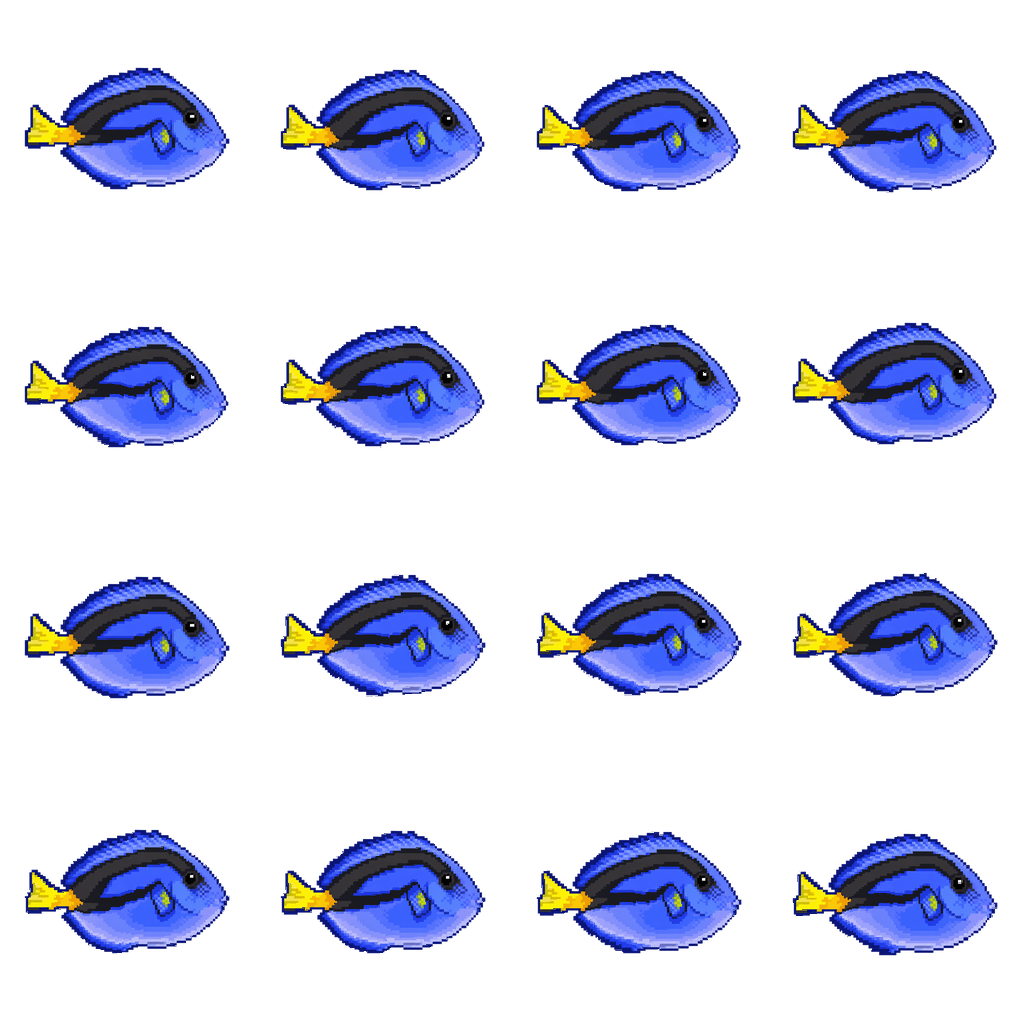
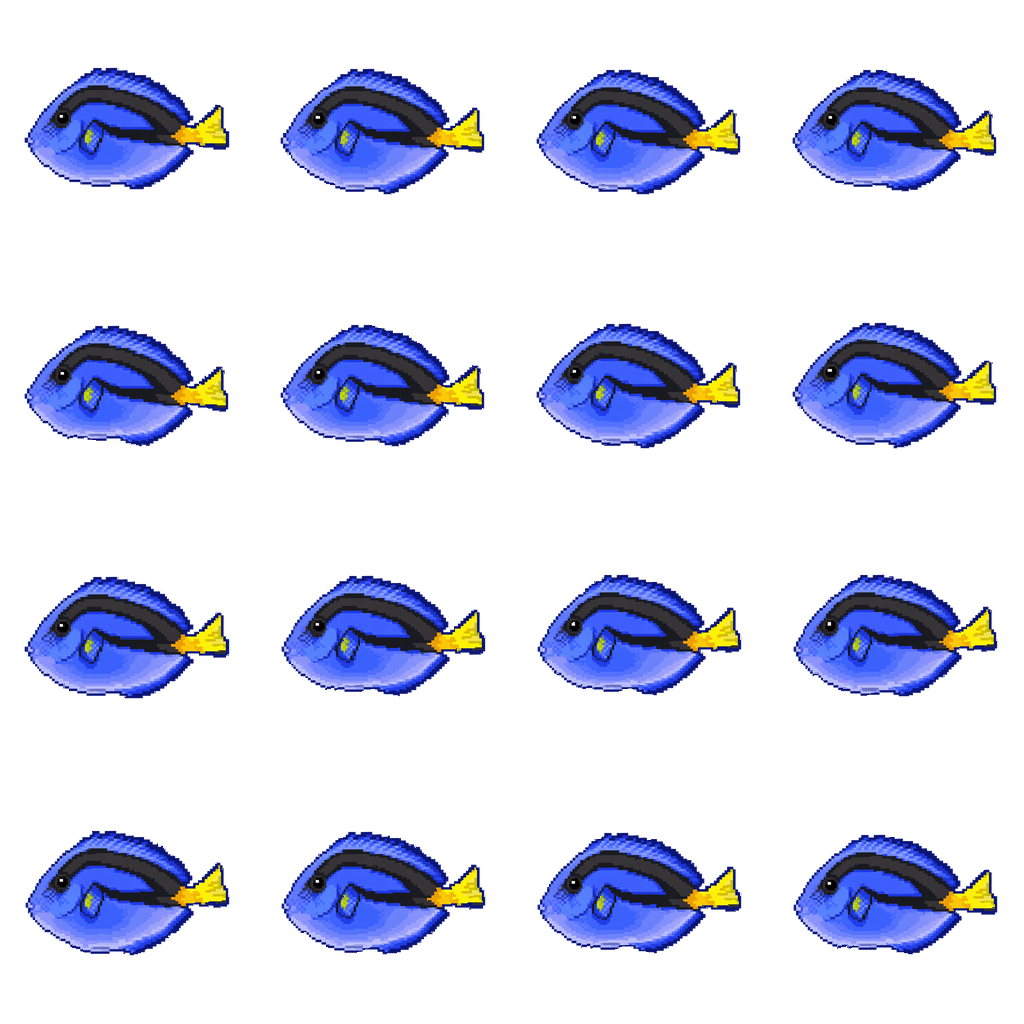
Fix mirrored artwork and stop fin motion denting the body
Individual review of all 30 turned up three real faults:

1. blue_hippo_tang and cherry_shrimp are drawn facing right while everything
   else faces left. The tail wave was landing on their heads, and the app -
   which assumes left-facing art and mirrors for rightward travel - would have
   swum them backwards. Both are now flipped before framing, and the shrimp
   profile is re-authored for left-facing coordinates.

2. Fin motion used fixed rectangles in normalised space. On deep-bodied reef
   fish that box sat on solid belly and pushed it around, which is what the
   audit showed as a red fringe along the underside. Fin movement now follows
   the silhouette edge, measured per column from the sprite's own alpha:
   weight 0.97 at the margin, 0.00 at the body centre, so the interior is never
   deformed.

3. silhouette_extents cached on id(image). CPython reuses ids after collection,
   so one fish could have been handed another's outline. Cached on the image
   object instead.

Also softened slow_cruise, whose uniform bob was drowning out the tail beat.

An automated facing check via the caudal peduncle was tried and discarded - it
produced six false positives on deep-bodied fish and on the swordfish, whose
narrowest point is its bill. Facing was confirmed by eye instead.

diff --git a/make_spritesheet.py b/make_spritesheet.py
@@ -229,27 +229,28 @@ def frame_rigid_fins(base, phase, pectoral=(0.44, 0.66, 0.34, 0.66), caudal_star
 def frame_shrimp(base, phase):
     """Cherry shrimp: rigid shell, beating swimmerets, flicking antennae.
 
-    The artwork faces right, so the rostrum and antennae are at u=1 and the tail
-    fan at u=0. Crustaceans can't undulate - the body holds its shape and hovers
-    while the appendages do the work, which is what separates this from a fish.
+    The source art faces right but is mirrored before it gets here, so as with
+    every other sprite the rostrum and antennae sit at u=0 and the tail fan at
+    u=1. Crustaceans can't undulate - the body holds its shape and hovers while
+    the appendages do the work, which is what separates this from a fish.
     """
     def displace(u, v):
         # whole animal hovers, with a slight nose-up/nose-down pitch
         dy = 4.5 * math.sin(phase)
-        dy += 2.6 * math.sin(phase + 0.7) * (u - 0.5) * 2
+        dy += 2.6 * math.sin(phase + 0.7) * (0.5 - u) * 2
         dx = 1.8 * math.sin(phase * 2 + 0.4)
 
-        # antennae: long, thin, upper right - flick faster and lag the body
-        antenna = smoothstep(0.66, 1.0, u) * (1.0 - smoothstep(0.30, 0.72, v))
+        # antennae: long, thin, upper front - flick faster and lag the body
+        antenna = (1.0 - smoothstep(0.0, 0.34, u)) * (1.0 - smoothstep(0.30, 0.72, v))
         dy += 5.0 * antenna * math.sin(phase * 2 + 1.1)
         dx += 2.4 * antenna * math.sin(phase * 2 + 1.8)
 
-        # pleopods and walking legs: ventral, fast, travelling back to front
-        legs = smoothstep(0.55, 0.86, v) * smoothstep(0.08, 0.30, u)
-        dy += 2.8 * legs * math.sin(phase * 3 + u * 5.5)
+        # pleopods and walking legs: ventral, fast, travelling front to back
+        legs = smoothstep(0.55, 0.86, v) * (1.0 - smoothstep(0.70, 0.92, u))
+        dy += 2.8 * legs * math.sin(phase * 3 + (1.0 - u) * 5.5)
 
-        # tail fan gives a small flex at the far left
-        fan = 1.0 - smoothstep(0.0, 0.22, u)
+        # tail fan gives a small flex at the far end
+        fan = smoothstep(0.78, 1.0, u)
         dy += 2.2 * fan * math.sin(phase + 2.4)
 
         return dx, dy
@@ -278,9 +279,39 @@ def frame_bcf(base, phase, amplitude=9.0, envelope=2.0, waves=1.1, beat=1,
     return mesh_warp(base, displace, cells=28)
 
 
+def silhouette_extents(image, samples=96):
+    """Top and bottom of the sprite for each of `samples` columns, normalised.
+
+    Used to find the body's outline. Fins are the outline - so motion aimed at
+    fins has to follow the actual silhouette rather than a rectangle guessed in
+    advance, which on a deep-bodied fish just lands on the belly and dents it.
+    """
+    # Cached on the image itself. Keying a dict by id() would be a trap: CPython
+    # reuses ids once an object is collected, so one fish could be handed
+    # another's silhouette.
+    cached = getattr(image, "_extents", None)
+    if cached and cached[0] == samples:
+        return cached[1]
+
+    width, height = image.size
+    alpha = image.getchannel("A").load()
+    tops, bottoms = [], []
+    for i in range(samples):
+        x = min(width - 1, int((i + 0.5) * width / samples))
+        column = [y for y in range(0, height, 2) if alpha[x, y] > 25]
+        if column:
+            tops.append(min(column) / height)
+            bottoms.append(max(column) / height)
+        else:
+            tops.append(None)
+            bottoms.append(None)
+    image._extents = (samples, (tops, bottoms))
+    return tops, bottoms
+
+
 def frame_mpf(base, phase, swing=1.5, bob=2.8, tail_amp=3.5, tail_beat=1,
-              pectoral=(0.28, 0.52, 0.44, 0.74), pectoral_amp=3.6, pectoral_beat=3,
-              median_amp=0.0, median_beat=2, dorsal_v=0.30, anal_v=0.70):
+              pectoral_amp=3.6, pectoral_beat=3, pectoral_span=(0.26, 0.58),
+              median_amp=0.0, median_beat=2, margin=0.22):
     """Median- and paired-fin swimming: the body stays stiff, fins do the work.
 
     Wrasses, parrotfish, tangs and angelfish row with their pectorals and hold
@@ -288,31 +319,48 @@ def frame_mpf(base, phase, swing=1.5, bob=2.8, tail_amp=3.5, tail_beat=1,
     fins. Both are expressed here - `pectoral_amp` for the rowers, `median_amp`
     for the ripplers - because in both cases the body itself barely bends.
 
-    Fin regions are approximate rectangles in normalised coordinates; without a
-    per-fish mask that is as precise as this can honestly get.
+    Fin movement is applied near the silhouette edge rather than inside a fixed
+    box: `margin` is how far in from the outline counts as fin, as a fraction of
+    the body's depth at that point. Deep in the body the weight falls to zero,
+    so the belly never gets pushed around.
     """
-    u0, u1, v0, v1 = pectoral
+    tops, bottoms = silhouette_extents(base)
+    samples = len(tops)
+    pu0, pu1 = pectoral_span
+
+    def edge_weight(u, v):
+        """1 at the silhouette's top/bottom edge, 0 deep inside the body."""
+        i = min(samples - 1, max(0, int(u * samples)))
+        top, bottom = tops[i], bottoms[i]
+        if top is None or bottom - top < 1e-3:
+            return 0.0, 0.0
+        depth = bottom - top
+        upper = 1.0 - smoothstep(0.0, margin, (v - top) / depth)
+        lower = 1.0 - smoothstep(0.0, margin, (bottom - v) / depth)
+        return max(0.0, upper), max(0.0, lower)
 
     def displace(u, v):
         dx, dy = rigid_offset(u, v, swing * math.sin(phase), pivot=(0.30, 0.50))
         dy += bob * math.sin(phase + 0.5)
+
+        upper, lower = edge_weight(u, v)
 
         # the tail still contributes, but as a trailing rudder
         tail = smoothstep(0.70, 1.0, u)
         dy += tail_amp * tail * math.sin(tail_beat * phase + 0.4)
 
         if pectoral_amp:
-            fan = (smoothstep(u0, u0 + 0.06, u) * (1.0 - smoothstep(u1 - 0.06, u1, u))
-                   * smoothstep(v0, v0 + 0.05, v) * (1.0 - smoothstep(v1 - 0.05, v1, v)))
+            # pectorals sit low on the flank, just behind the head
+            span = smoothstep(pu0, pu0 + 0.07, u) * (1.0 - smoothstep(pu1 - 0.07, pu1, u))
+            fan = span * lower
             dy += pectoral_amp * fan * math.sin(pectoral_beat * phase)
             dx += pectoral_amp * 0.6 * fan * math.sin(pectoral_beat * phase + 1.5)
 
         if median_amp:
-            # dorsal above, anal below, travelling tail-ward and in antiphase
-            dorsal = (1.0 - smoothstep(dorsal_v - 0.10, dorsal_v, v)) * smoothstep(0.20, 0.35, u)
-            anal = smoothstep(anal_v, anal_v + 0.10, v) * smoothstep(0.25, 0.40, u)
-            dy += median_amp * dorsal * math.sin(median_beat * phase + u * 6.0)
-            dy += median_amp * anal * math.sin(median_beat * phase + u * 6.0 + math.pi)
+            # dorsal above and anal below, travelling tail-ward in antiphase
+            body = smoothstep(0.20, 0.36, u)
+            dy += median_amp * upper * body * math.sin(median_beat * phase + u * 6.0)
+            dy += median_amp * lower * body * math.sin(median_beat * phase + u * 6.0 + math.pi)
 
         return dx, dy
 
@@ -344,16 +392,18 @@ PROFILES = {
                                        beat=1, swing=2.0, pivot_u=0.22, bob=1.4)),
     "subcarangiform": (frame_bcf, dict(amplitude=7.5, envelope=1.9, waves=1.15,
                                        beat=2, swing=2.2, pivot_u=0.26, bob=1.6)),
-    "anguilliform":   (frame_bcf, dict(amplitude=10.0, envelope=1.0, waves=1.75,
+    "anguilliform":   (frame_bcf, dict(amplitude=7.5, envelope=1.0, waves=1.75,
                                        beat=1, swing=1.0, pivot_u=0.38, bob=1.2)),
-    "slow_cruise":    (frame_bcf, dict(amplitude=5.0, envelope=3.0, waves=0.6,
-                                       beat=1, swing=1.2, pivot_u=0.18, bob=2.4)),
+    # A uniform bob applies equally to head and tail, so keep it small here or
+    # it drowns out the tail beat on these big slow fish.
+    "slow_cruise":    (frame_bcf, dict(amplitude=7.0, envelope=2.8, waves=0.6,
+                                       beat=1, swing=1.3, pivot_u=0.16, bob=1.0)),
 
     # --- median and paired fins: body stiff, fins doing the work ---
     "labriform":      (frame_mpf, dict(pectoral_amp=4.2, pectoral_beat=3,
                                        median_amp=0.0, tail_amp=3.2, swing=1.5, bob=3.0)),
-    "balistiform":    (frame_mpf, dict(pectoral_amp=1.2, pectoral_beat=2,
-                                       median_amp=4.6, median_beat=2,
+    "balistiform":    (frame_mpf, dict(pectoral_amp=1.0, pectoral_beat=2,
+                                       median_amp=5.0, median_beat=2, margin=0.26,
                                        tail_amp=2.2, swing=1.1, bob=2.6)),
 
     # --- one-off shapes that none of the above describe ---
@@ -362,6 +412,11 @@ PROFILES = {
     "shrimp": (frame_shrimp, {}),
     "sway":   (frame_sway, {}),
 }
+
+# Artwork that arrived facing right. The app assumes fish face left and mirrors
+# them for rightward travel, so these are flipped before framing - otherwise the
+# tail wave lands on the head and they swim backwards in the tank.
+MIRROR = {"cherry_shrimp", "blue_hippo_tang"}
 
 # Anything unlisted falls back to DEFAULT_PROFILE.
 DEFAULT_PROFILE = "carangiform"
@@ -446,6 +501,8 @@ def main():
             continue
 
         source = Image.open(source_path).convert("RGBA")
+        if fish_id in MIRROR:
+            source = source.transpose(Image.FLIP_LEFT_RIGHT)
 
         # Hand-drawn sheets stay untouched
         if source_path == sheet_path and is_grid(source):
